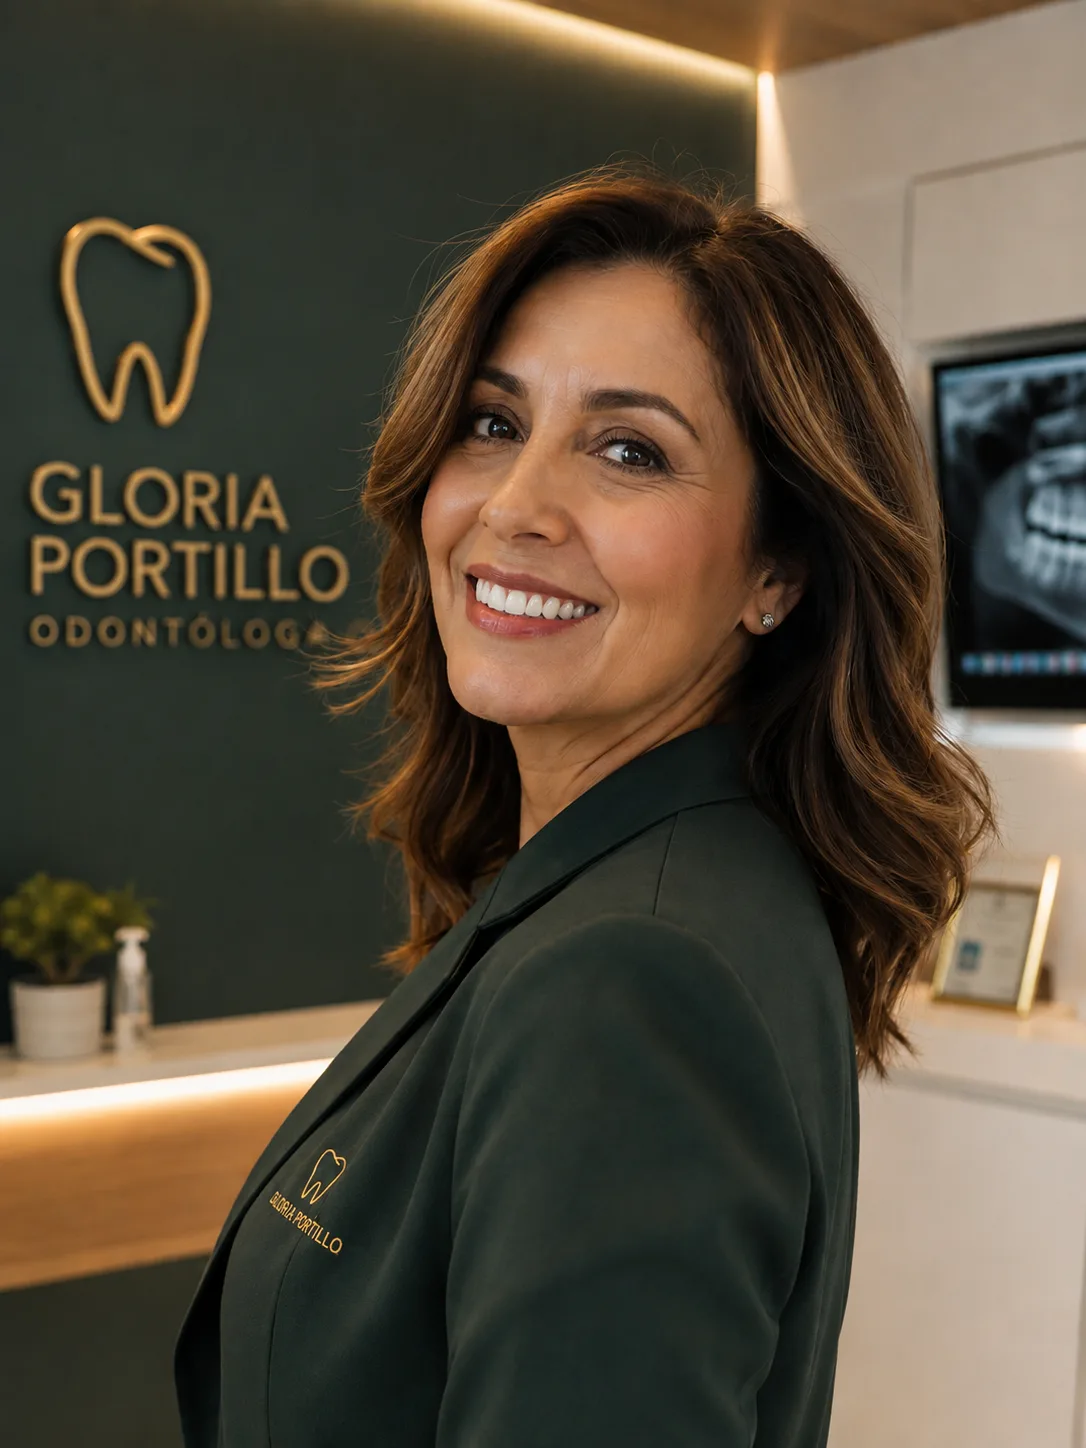
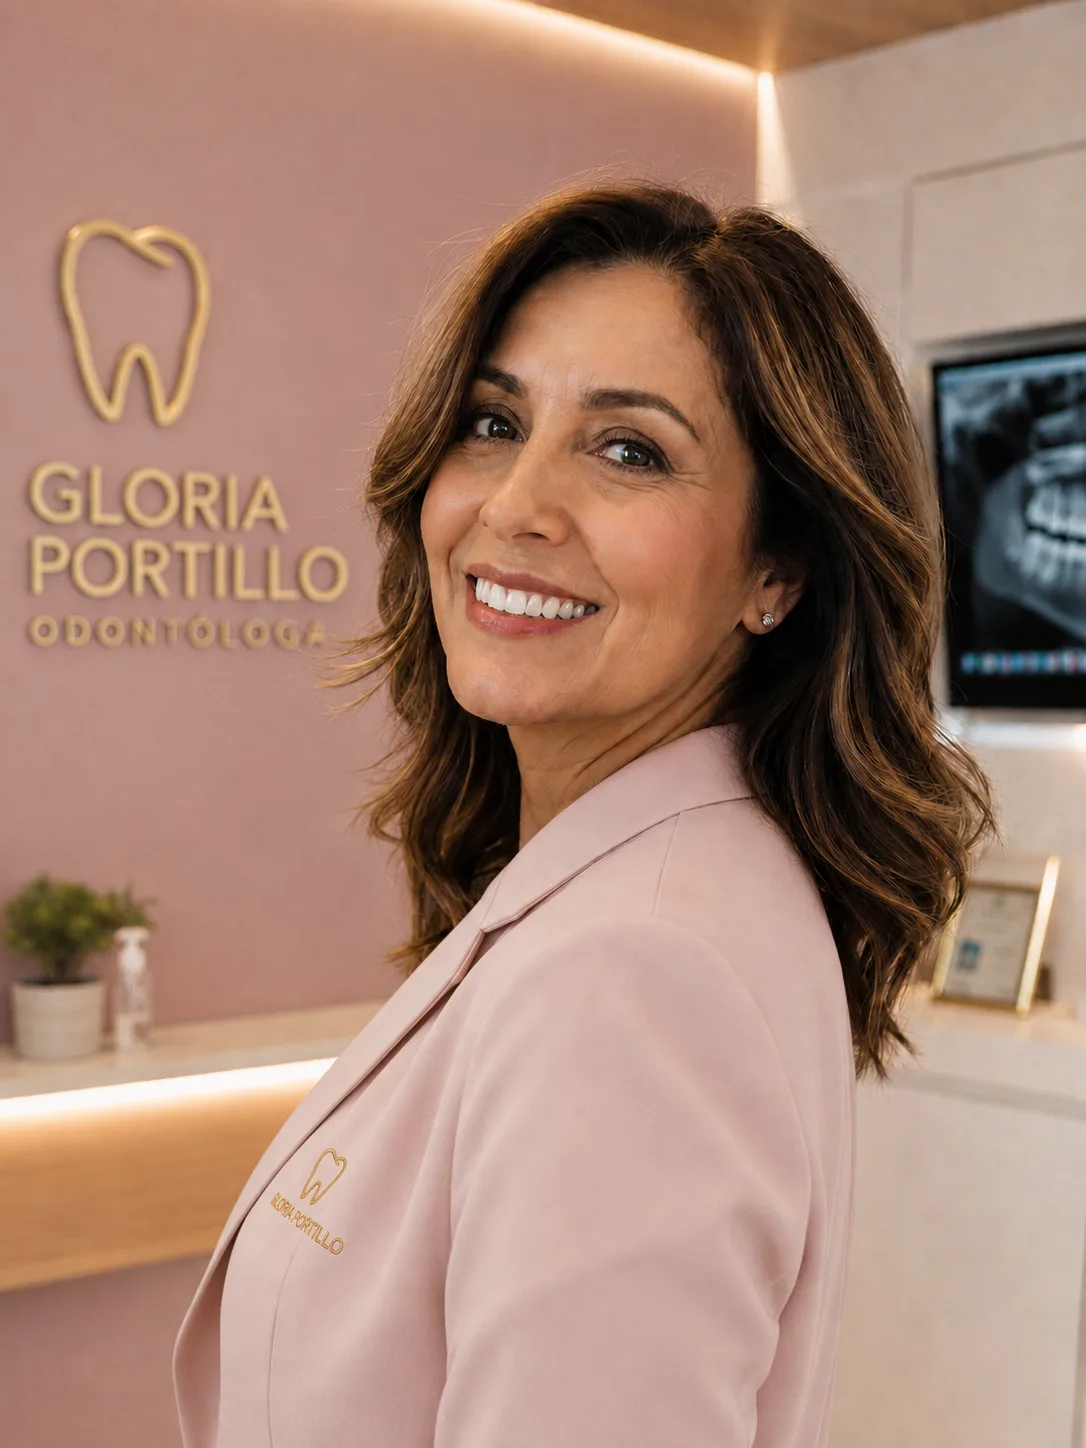
Reemplazar la foto del hero por la del consultorio en rosa
La foto nueva (recepción con la pared rosa y el logotipo) hace juego con la
paleta; la anterior tenía la pared verde y desentonaba desde el cambio de
color.

Optimización: 1.92 MB de PNG -> 80 KB de WebP, misma resolución (1086x1448) y
misma proporción 3:4, así que el layout no se mueve.

Se regenera también la imagen de Open Graph, que sale de la foto del hero. El
recorte apaisado dejó de servir: anclado arriba (`position: "top"`) cortaba la
sonrisa a la altura del labio, y esa imagen es la miniatura que se ve al
compartir el enlace por WhatsApp. Ahora se recorta una banda explícita
(`RECORTE_Y`) que encuadra desde encima de la cabeza hasta bajo la barbilla.

El script salta las imágenes cuyo original no esté en la carpeta, en vez de
abortar: normalmente se reemplaza una sola foto.

diff --git a/README.md b/README.md
@@ -57,6 +57,28 @@ lib/
 public/img/         Fotos en WebP
 ```
 
+## Cambiar una foto
+
+1. Deja el archivo nuevo en `originales/` (esa carpeta no se versiona: solo
+   guarda los archivos pesados sin optimizar).
+2. Apunta a él en `scripts/optimizar-imagenes.mjs`.
+3. Corre `node scripts/optimizar-imagenes.mjs`. Genera el WebP en `public/img/`
+   —de ~2 MB a ~80 KB— y, si es la foto del hero, regenera además la imagen de
+   Open Graph.
+4. Borra `.next` antes de volver a mirar: si el nombre del archivo no cambia,
+   el servidor sigue sirviendo la versión anterior desde su caché y parece que
+   el reemplazo no funcionó.
+
+Dos cosas que conviene revisar al cambiar la foto del hero:
+
+- **El recorte de la imagen de Open Graph.** Es la miniatura que ve quien
+  recibe el enlace por WhatsApp. Sale de una banda apaisada de una foto
+  vertical, así que basta con que la cara esté unos centímetros más abajo para
+  que el recorte corte la sonrisa. Se ajusta con `RECORTE_Y` en el script, y hay
+  que mirar el resultado.
+- **El texto alternativo** en `lib/contenido.ts`, que describe la foto para
+  quien no puede verla y para Google.
+
 ## Paleta
 
 Todos los colores viven en `app/globals.css`, dentro de `@theme`. Cambiar la
